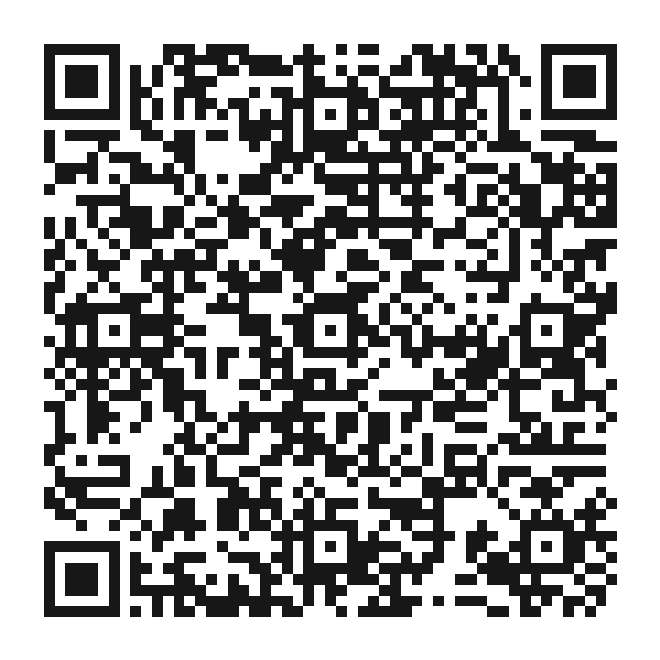
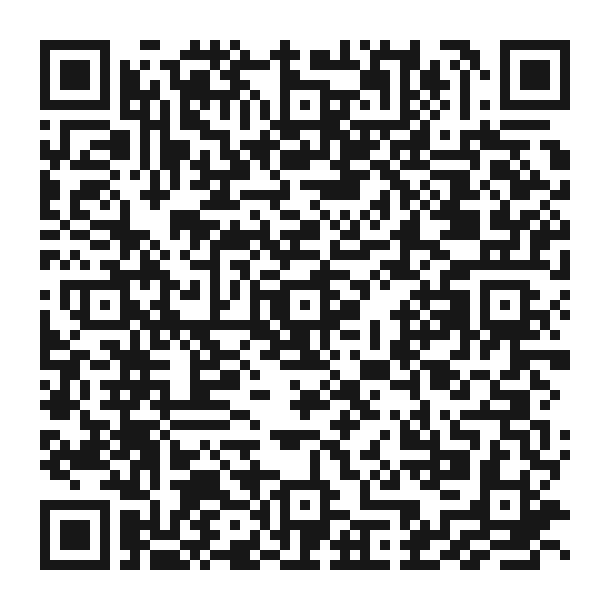
fix: preserve accents in contact QR scans
Declare UTF-8 through ECI 26, render PNG and SVG from the same exact module grid, and version both image URLs to invalidate cached codes. Keep the original accented contact payload and separate vCard unchanged.

Verified: 28 native and QR encoding tests with two decoders; full browser coverage of 48 responsive layouts, 52 personal dialog cases and 24 rendered QR cases, including UTF-8 metadata at compact sizes.

diff --git a/index.html b/index.html
@@ -161,7 +161,7 @@
 
     <footer class="site-footer" id="contacto">
       <div class="shell footer-grid">
-        <div class="footer-profile"><a class="footer-name" href="#inicio">Paulina A. <em>Contreras L.</em></a><p data-i18n="hero.role">Ingeniero en Administración de Empresas</p><p class="footer-degree" data-i18n="footer.degree">Formación en curso · UNAB</p><button class="qr-trigger" type="button" data-open-dialog="qr-dialog" aria-haspopup="dialog" aria-label="Ampliar código QR de contacto" data-i18n-aria="qr.open"><img src="img/contact-details.png" alt="" width="80" height="80" loading="lazy"><span><strong data-i18n="qr.card">Mi tarjeta de contacto</strong><span data-i18n="qr.expand">Toca el QR para ampliarlo</span><span class="qr-trigger-detail"><span class="icon icon--qr" aria-hidden="true"></span><span data-i18n="qr.save">Escanea y consulta mis datos</span></span></span></button></div>
+        <div class="footer-profile"><a class="footer-name" href="#inicio">Paulina A. <em>Contreras L.</em></a><p data-i18n="hero.role">Ingeniero en Administración de Empresas</p><p class="footer-degree" data-i18n="footer.degree">Formación en curso · UNAB</p><button class="qr-trigger" type="button" data-open-dialog="qr-dialog" aria-haspopup="dialog" aria-label="Ampliar código QR de contacto" data-i18n-aria="qr.open"><img src="img/contact-details.png?v=utf8-eci-26" alt="" width="80" height="80" loading="lazy"><span><strong data-i18n="qr.card">Mi tarjeta de contacto</strong><span data-i18n="qr.expand">Toca el QR para ampliarlo</span><span class="qr-trigger-detail"><span class="icon icon--qr" aria-hidden="true"></span><span data-i18n="qr.save">Escanea y consulta mis datos</span></span></span></button></div>
         <nav class="footer-navigation" aria-label="Enlaces del pie de página" data-i18n-aria="footer.navLabel"><h2 data-i18n="footer.links">Enlaces</h2><ul><li><a href="#inicio" data-i18n="nav.home">Inicio</a></li><li><a href="#datos-personales" data-i18n="nav.personal">Datos personales</a></li><li><a href="#estudios" data-i18n="nav.studies">Estudios</a></li><li><a href="#experiencia" data-i18n="nav.experience">Experiencia</a></li><li><button class="footer-dialog-link" type="button" data-open-dialog="gallery-dialog" aria-haspopup="dialog" data-i18n="nav.gallery">Galería</button></li></ul></nav>
         <div class="footer-contact"><h2 data-i18n="footer.contact">Contacto</h2><ul><li><span class="icon icon--mail" aria-hidden="true"></span><a href="mailto:paucontrerasl@gmail.com">paucontrerasl@gmail.com</a></li><li><span class="icon icon--phone" aria-hidden="true"></span><a href="tel:+56964194547">+56 9 6419 4547</a></li><li><span class="icon icon--pin" aria-hidden="true"></span><span data-i18n="contact.location">Peñaflor, Santiago, Chile</span></li></ul><button class="footer-contact-link" type="button" data-open-dialog="opportunity-dialog" aria-haspopup="dialog"><span class="footer-contact-label" data-i18n="footer.talk">Hablemos de nuevas oportunidades</span><span class="footer-contact-arrow" aria-hidden="true"><span class="icon icon--arrow-up"></span></span></button></div>
       </div>
@@ -282,7 +282,7 @@
         </header>
         <div class="dialog-content qr-dialog-content">
           <p class="qr-instructions" data-i18n="qr.instructions">Escanea el QR para ver mis datos completos.</p>
-          <img class="qr-large" src="img/contact-details.svg" alt="Código QR con el nombre, título, teléfono y correo de Paulina Contreras" width="183" height="183" data-i18n-alt="qr.alt">
+          <img class="qr-large" src="img/contact-details.svg?v=utf8-eci-26" alt="Código QR con el nombre, título, teléfono y correo de Paulina Contreras" width="183" height="183" data-i18n-alt="qr.alt">
           <h3 class="qr-name">Paulina Contreras</h3>
           <a class="button button--quiet qr-save" href="assets/paulina-contreras.vcf" download="Paulina-Contreras.vcf"><span class="icon icon--download" aria-hidden="true"></span><span data-i18n="qr.download">Guardar contacto</span></a>
         </div>
